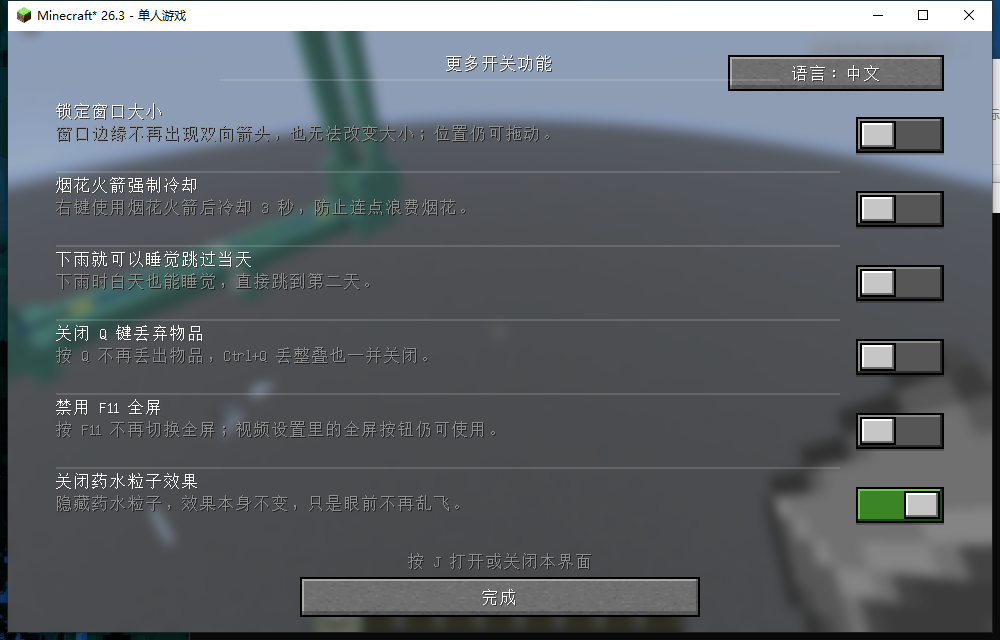
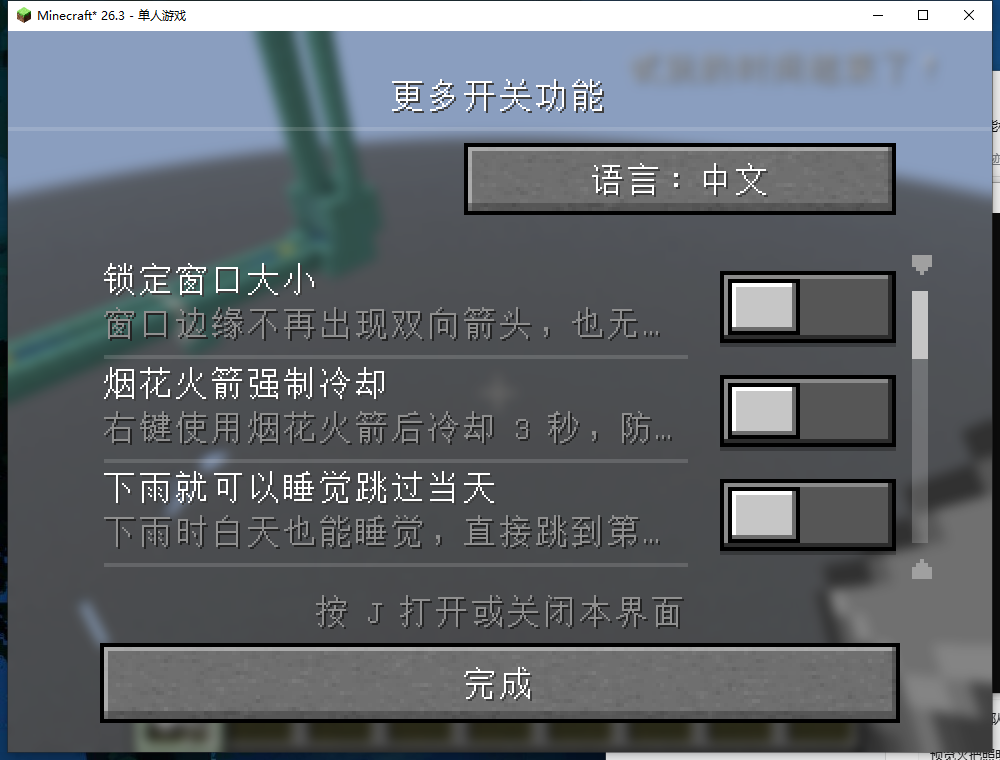
新增三个安静类开关，并修复滚动列表两处显示缺陷
- 关闭资源包警告：PackCompatibility.isCompatible 返回 true，跳过版本不匹配确认框
- 关闭篝火烟雾：取消 CampfireBlock.makeParticles，覆盖普通/灵魂/信号篝火，火焰保留
- 关闭新手教程：取消 Tutorial.start()，整套提示从源头不再出现
- 模块去重：抽出 SimpleSwitchModule，替换 LightModule
- 修复滚动列表：半滚出视口的开关按钮会画到提示栏；视口底部出现半行文字残影

diff --git a/src/client/java/com/heishandashu/moreswitches/client/ui/SettingsScreen.java b/src/client/java/com/heishandashu/moreswitches/client/ui/SettingsScreen.java
@@ -255,16 +255,21 @@ public class SettingsScreen extends Screen {
      * belonging to a row that is currently scrolled out of sight.</p>
      */
     private void positionToggles() {
+        int viewportBottom = this.viewportTop + this.viewportHeight;
         for (int index = 0; index < this.toggles.size(); index++) {
             ToggleSwitchWidget toggle = this.toggles.get(index);
             int rowY = rowScreenY(index);
             int toggleHeight = toggle.getHeight();
-            toggle.setY(rowY + (this.rowHeight - toggleHeight) / 2);
+            int toggleY = rowY + (this.rowHeight - toggleHeight) / 2;
+            toggle.setY(toggleY);
 
-            boolean onScreen = rowY + this.rowHeight > this.viewportTop
-                    && rowY < this.viewportTop + this.viewportHeight;
-            toggle.visible = onScreen;
-            toggle.active = onScreen;
+            // The switch must sit entirely inside the viewport. Text is clipped by a scissor, but a
+            // widget is drawn separately and would otherwise leak onto the hint line and the Done
+            // button when its row is only half scrolled into view.
+            boolean fullyInside = rowY >= this.viewportTop
+                    && rowY + this.rowHeight <= viewportBottom;
+            toggle.visible = fullyInside;
+            toggle.active = fullyInside;
         }
     }
 
@@ -417,10 +422,14 @@ public class SettingsScreen extends Screen {
 
         graphics.enableScissor(labelX, this.viewportTop, labelRight, this.viewportTop + this.viewportHeight);
         try {
+            int viewportBottom = this.viewportTop + this.viewportHeight;
             for (int index = 0; index < this.switchIds.size(); index++) {
                 int rowY = rowScreenY(index);
-                if (rowY + this.rowHeight <= this.viewportTop
-                        || rowY >= this.viewportTop + this.viewportHeight) {
+                // Draw a row only once at least half of it is inside the viewport. A sliver of a
+                // row reads as a rendering glitch rather than as "scroll for more", and the switch
+                // for that row is hidden anyway.
+                int visible = Math.min(rowY + this.rowHeight, viewportBottom) - Math.max(rowY, this.viewportTop);
+                if (visible < this.rowHeight / 2) {
                     continue;
                 }
                 drawRowText(graphics, this.switchIds.get(index), labelX, rowY + rowContentOffsetY());

diff --git a/src/main/java/com/heishandashu/moreswitches/quiet/QuietRules.java b/src/main/java/com/heishandashu/moreswitches/quiet/QuietRules.java
@@ -1,0 +1,43 @@
+package com.heishandashu.moreswitches.quiet;
+
+import com.heishandashu.moreswitches.config.ModSettings;
+import com.heishandashu.moreswitches.config.SwitchIds;
+
+/**
+ * The three "stop bothering me" switches.
+ *
+ * <p>They share a class because they are all the same shape: one boolean in the settings file
+ * decides whether vanilla is allowed to do something intrusive. Keeping them together avoids
+ * three files that would each hold a single line, while the three named accessors keep the call
+ * sites readable.</p>
+ */
+public final class QuietRules {
+
+    private QuietRules() {
+    }
+
+    /**
+     * Whether an incompatible resource pack may be enabled without the confirmation dialog.
+     *
+     * <p>The dialog exists to warn that a pack was built for another Minecraft version. A player
+     * who turned this on has read that warning once and does not want it again on every change.</p>
+     */
+    public static boolean skipResourcePackWarning() {
+        return ModSettings.get().isEnabled(SwitchIds.RESOURCE_PACK_WARNING_OFF);
+    }
+
+    /** Whether campfires should stop producing smoke. */
+    public static boolean suppressCampfireSmoke() {
+        return ModSettings.get().isEnabled(SwitchIds.CAMPFIRE_SMOKE_OFF);
+    }
+
+    /**
+     * Whether the tutorial should be prevented from starting.
+     *
+     * <p>Vanilla's tutorial drives every "press W to walk" style toast. Stopping it at the source
+     * means no tutorial message of any kind can appear, rather than hiding each one separately.</p>
+     */
+    public static boolean suppressTutorial() {
+        return ModSettings.get().isEnabled(SwitchIds.TUTORIAL_OFF);
+    }
+}

diff --git a/src/client/java/com/heishandashu/moreswitches/client/feature/ClientFeatures.java b/src/client/java/com/heishandashu/moreswitches/client/feature/ClientFeatures.java
@@ -38,8 +38,12 @@ public final class ClientFeatures {
         DropKeyModule dropKey = new DropKeyModule();
         FullscreenKeyModule fullscreenKey = new FullscreenKeyModule();
         EffectParticleModule effectParticles = new EffectParticleModule();
-        LightModule lightPreview = new LightModule(SwitchIds.LIGHT_PREVIEW);
-        LightModule movingLight = new LightModule(SwitchIds.MOVING_LIGHT);
+        SimpleSwitchModule lightPreview = new SimpleSwitchModule(SwitchIds.LIGHT_PREVIEW);
+        SimpleSwitchModule movingLight = new SimpleSwitchModule(SwitchIds.MOVING_LIGHT);
+        SimpleSwitchModule packWarning =
+                new SimpleSwitchModule(SwitchIds.RESOURCE_PACK_WARNING_OFF);
+        SimpleSwitchModule campfireSmoke = new SimpleSwitchModule(SwitchIds.CAMPFIRE_SMOKE_OFF);
+        SimpleSwitchModule tutorial = new SimpleSwitchModule(SwitchIds.TUTORIAL_OFF);
 
         MODULES.put(SwitchIds.WINDOW_LOCK, windowLock);
         MODULES.put(SwitchIds.FIREWORK_COOLDOWN, fireworkCooldown);
@@ -49,6 +53,9 @@ public final class ClientFeatures {
         MODULES.put(SwitchIds.EFFECT_PARTICLES_OFF, effectParticles);
         MODULES.put(SwitchIds.LIGHT_PREVIEW, lightPreview);
         MODULES.put(SwitchIds.MOVING_LIGHT, movingLight);
+        MODULES.put(SwitchIds.RESOURCE_PACK_WARNING_OFF, packWarning);
+        MODULES.put(SwitchIds.CAMPFIRE_SMOKE_OFF, campfireSmoke);
+        MODULES.put(SwitchIds.TUTORIAL_OFF, tutorial);
 
         for (SwitchDefinition definition : SwitchIds.all()) {
             ClientFeature feature = MODULES.get(definition.id());

diff --git a/src/client/java/com/heishandashu/moreswitches/client/mixin/MixinCampfireBlock.java b/src/client/java/com/heishandashu/moreswitches/client/mixin/MixinCampfireBlock.java
@@ -1,0 +1,33 @@
+package com.heishandashu.moreswitches.client.mixin;
+
+import com.heishandashu.moreswitches.quiet.QuietRules;
+import net.minecraft.core.BlockPos;
+import net.minecraft.world.level.Level;
+import net.minecraft.world.level.block.CampfireBlock;
+import org.spongepowered.asm.mixin.Mixin;
+import org.spongepowered.asm.mixin.injection.At;
+import org.spongepowered.asm.mixin.injection.Inject;
+import org.spongepowered.asm.mixin.injection.callback.CallbackInfo;
+
+/**
+ * Stops campfires from producing smoke.
+ *
+ * <p>{@code makeParticles} is the one place a campfire creates its plume, and it is shared by lit
+ * campfires, soul campfires and the signal variant on a hay bale, so cancelling it removes every
+ * kind of campfire smoke in one step rather than filtering particles by type afterwards.</p>
+ *
+ * <p>The campfire itself is untouched: it still burns, still cooks, still lights the area and
+ * still shows its flames. Only the smoke, which is the part that obscures the view, is gone.</p>
+ */
+@Mixin(CampfireBlock.class)
+public class MixinCampfireBlock {
+
+    @Inject(method = "makeParticles", at = @At("HEAD"), cancellable = true, require = 1)
+    private static void moreswitches$suppressSmoke(Level level, BlockPos pos,
+                                                   boolean isSignalFire, boolean isCosy,
+                                                   CallbackInfo cir) {
+        if (QuietRules.suppressCampfireSmoke()) {
+            cir.cancel();
+        }
+    }
+}

diff --git a/src/client/java/com/heishandashu/moreswitches/client/feature/SimpleSwitchModule.java b/src/client/java/com/heishandashu/moreswitches/client/feature/SimpleSwitchModule.java
@@ -1,22 +1,27 @@
 package com.heishandashu.moreswitches.client.feature;
 
 import com.heishandashu.moreswitches.MoreSwitchesMod;
-import com.heishandashu.moreswitches.config.SwitchIds;
 
 /**
- * The two light switches.
+ * A switch whose effect is read straight from the settings file by a mixin.
  *
- * <p>Both effects are read directly by their mixins from the settings file, so neither module owns
- * per-frame work. They exist because every switch must have a module: a switch without one is a
- * wiring error the settings screen would otherwise hide.</p>
+ * <p>Most of the mod's switches work this way: the mixin asks a rule class whether it may act, and
+ * the rule reads the saved value. Such a switch still needs a module, because a switch without one
+ * is a wiring error the settings screen would otherwise hide, but the module itself owns no state
+ * beyond remembering what it last logged.</p>
+ *
+ * <p>This class exists so those switches do not each get a near-identical file.</p>
  */
-public final class LightModule implements ClientFeature {
+public final class SimpleSwitchModule implements ClientFeature {
 
     private final String switchId;
 
     private boolean active;
 
-    public LightModule(String switchId) {
+    /**
+     * @param switchId the switch this module stands for, used only for logging
+     */
+    public SimpleSwitchModule(String switchId) {
         this.switchId = switchId;
     }
 

diff --git a/src/client/java/com/heishandashu/moreswitches/client/mixin/MixinTutorial.java b/src/client/java/com/heishandashu/moreswitches/client/mixin/MixinTutorial.java
@@ -1,0 +1,31 @@
+package com.heishandashu.moreswitches.client.mixin;
+
+import com.heishandashu.moreswitches.quiet.QuietRules;
+import net.minecraft.client.tutorial.Tutorial;
+import org.spongepowered.asm.mixin.Mixin;
+import org.spongepowered.asm.mixin.injection.At;
+import org.spongepowered.asm.mixin.injection.Inject;
+import org.spongepowered.asm.mixin.injection.callback.CallbackInfo;
+
+/**
+ * Stops the tutorial from starting, so none of its messages ever appear.
+ *
+ * <p>{@code Tutorial.start()} is the single place the tutorial picks its step for a freshly joined
+ * world. Cancelling it leaves the internal step instance unset, and every callback the tutorial
+ * exposes — {@code tick}, {@code onMouse}, {@code onInput}, {@code onGetItem}, {@code stop} —
+ * already checks for that and does nothing.</p>
+ *
+ * <p>Stopping it at the source is what makes this cover "any tutorial message": the walk, jump,
+ * punch-tree, inventory and crafting prompts are all steps of this one machine, so none of them
+ * can be reached. Trying to hide the toasts one by one would be a chase.</p>
+ */
+@Mixin(Tutorial.class)
+public class MixinTutorial {
+
+    @Inject(method = "start", at = @At("HEAD"), cancellable = true, require = 1)
+    private void moreswitches$suppressTutorial(CallbackInfo cir) {
+        if (QuietRules.suppressTutorial()) {
+            cir.cancel();
+        }
+    }
+}

diff --git a/src/main/java/com/heishandashu/moreswitches/config/SwitchIds.java b/src/main/java/com/heishandashu/moreswitches/config/SwitchIds.java
@@ -34,6 +34,15 @@ public final class SwitchIds {
     /** Brighten the surroundings of a held light source, visually only. */
     public static final String MOVING_LIGHT = "moving_light";
 
+    /** Skip the version-mismatch warning when an incompatible resource pack is enabled. */
+    public static final String RESOURCE_PACK_WARNING_OFF = "resource_pack_warning_off";
+
+    /** Stop campfires from producing any smoke. */
+    public static final String CAMPFIRE_SMOKE_OFF = "campfire_smoke_off";
+
+    /** Never start the tutorial, so its toasts never appear. */
+    public static final String TUTORIAL_OFF = "tutorial_off";
+
     private static final List<SwitchDefinition> ALL = List.of(
             new SwitchDefinition(WINDOW_LOCK, false),
             new SwitchDefinition(FIREWORK_COOLDOWN, false),
@@ -42,7 +51,10 @@ public final class SwitchIds {
             new SwitchDefinition(FULLSCREEN_KEY_LOCK, false),
             new SwitchDefinition(EFFECT_PARTICLES_OFF, false),
             new SwitchDefinition(LIGHT_PREVIEW, false),
-            new SwitchDefinition(MOVING_LIGHT, false));
+            new SwitchDefinition(MOVING_LIGHT, false),
+            new SwitchDefinition(RESOURCE_PACK_WARNING_OFF, false),
+            new SwitchDefinition(CAMPFIRE_SMOKE_OFF, false),
+            new SwitchDefinition(TUTORIAL_OFF, false));
 
     private SwitchIds() {
     }

diff --git a/src/client/java/com/heishandashu/moreswitches/client/mixin/MixinPackCompatibility.java b/src/client/java/com/heishandashu/moreswitches/client/mixin/MixinPackCompatibility.java
@@ -1,0 +1,29 @@
+package com.heishandashu.moreswitches.client.mixin;
+
+import com.heishandashu.moreswitches.quiet.QuietRules;
+import net.minecraft.server.packs.repository.PackCompatibility;
+import org.spongepowered.asm.mixin.Mixin;
+import org.spongepowered.asm.mixin.injection.At;
+import org.spongepowered.asm.mixin.injection.Inject;
+import org.spongepowered.asm.mixin.injection.callback.CallbackInfoReturnable;
+
+/**
+ * Lets an incompatible resource pack be selected without the version-mismatch warning.
+ *
+ * <p>Vanilla asks {@code PackCompatibility.isCompatible()} before enabling a pack; a false answer
+ * makes the pack list raise a confirmation dialog saying the pack was built for another version.
+ * Answering true makes that path take the "just enable it" branch instead.</p>
+ *
+ * <p>Only the warning is skipped. The pack is still loaded the same way, and a pack that is
+ * genuinely missing is removed by a separate existence check that this does not touch.</p>
+ */
+@Mixin(PackCompatibility.class)
+public class MixinPackCompatibility {
+
+    @Inject(method = "isCompatible", at = @At("HEAD"), cancellable = true, require = 1)
+    private void moreswitches$skipWarning(CallbackInfoReturnable<Boolean> cir) {
+        if (QuietRules.skipResourcePackWarning()) {
+            cir.setReturnValue(true);
+        }
+    }
+}
